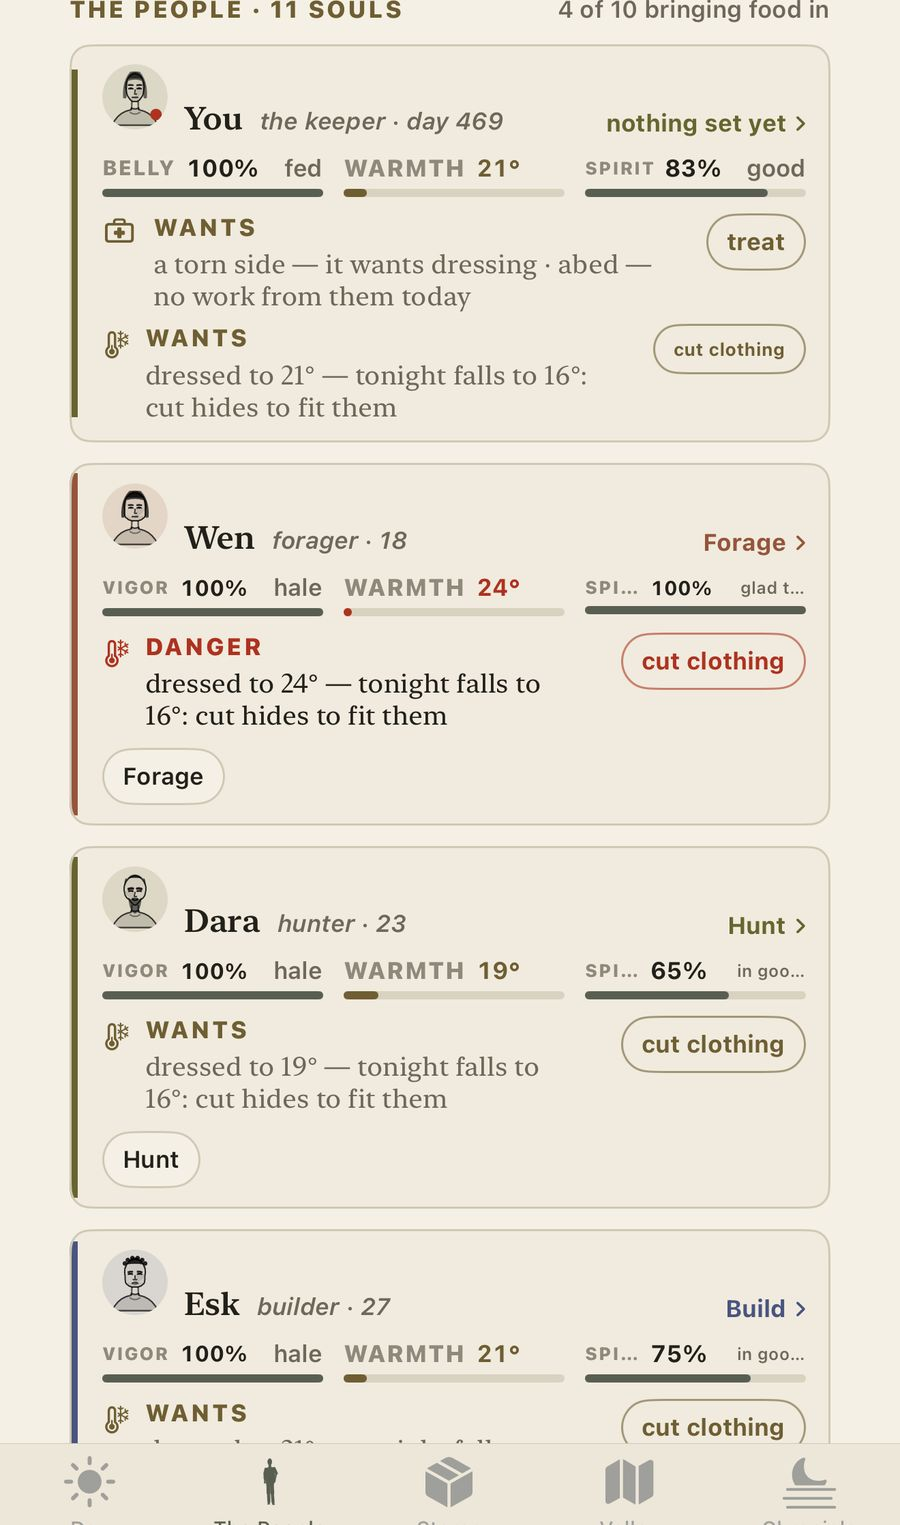
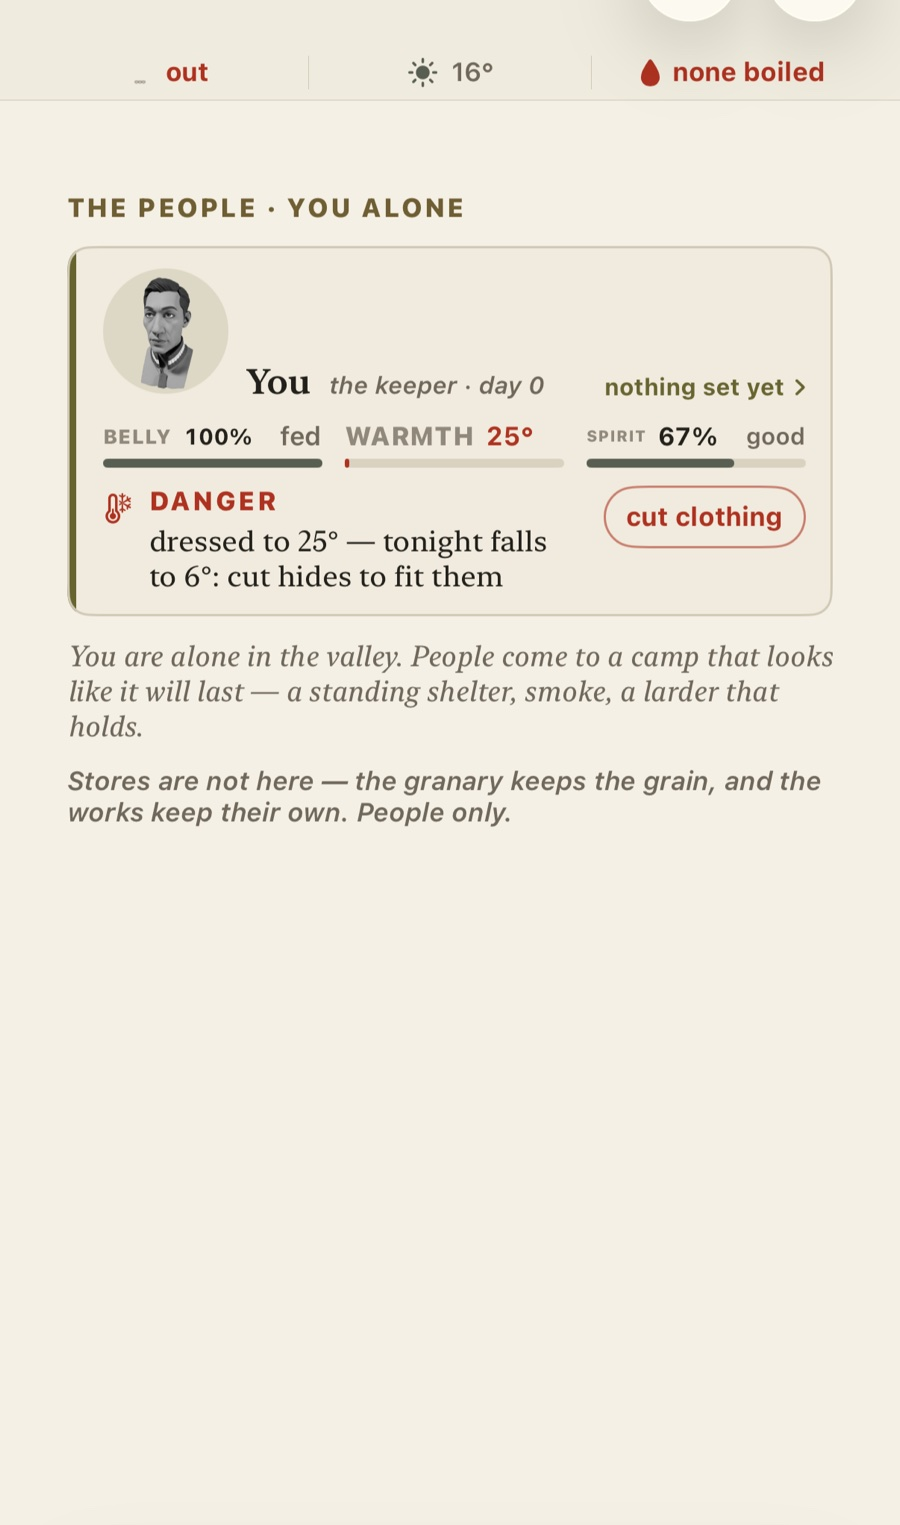
The People page with its painted bust, and the room section awaiting its two shots

diff --git a/index.html b/index.html
@@ -220,16 +220,20 @@
 </section>
 
 <section class="alt">
-  <div class="wrap split">
-    <img class="reveal" src="/vision-valley.jpg" width="1500" height="1149" loading="lazy"
-         alt="The valley as a living diorama on a table, seen on Apple Vision Pro">
-    <div>
-      <p class="eyebrow">Apple Vision Pro</p>
-      <h2>Your valley, on the table</h2>
-      <p>The whole holding sits in the room as a diorama you can lean into, turn on its axis and
-        walk around — the fire alight, the river running, the smoke leaning with the wind.</p>
-      <p>The same life, the same save, on every device you own.</p>
+  <div class="wrap">
+    <p class="eyebrow">Apple Vision Pro</p>
+    <h2>Step into the valley</h2>
+    <p style="max-width:38rem">On the headset the camp does not sit in a window. Say the word and it
+      is in your room at waist height — a desert holding on a hard-baked pan, or a taiga camp with
+      the birches turning — and you lean over the fire, look down the river, and walk round the
+      house. The tabletop diorama is still there when you want it small.</p>
+    <div class="split" style="margin-top:1.4rem">
+      <img class="reveal" src="/vision-room-scrub.jpg?v=1" width="1920" height="1080" loading="lazy"
+           alt="A desert camp standing in a living room, seen full-size on Apple Vision Pro">
+      <img class="reveal" src="/vision-room-taiga.jpg?v=1" width="1920" height="1080" loading="lazy"
+           alt="A taiga camp in autumn standing in a living room, seen full-size on Apple Vision Pro">
     </div>
+    <p class="soft" style="margin-top:.8rem">The same life, the same save, on every device you own.</p>
   </div>
 </section>
 
@@ -328,7 +332,7 @@
           wind — read the land before you spend a season on it.</p></figcaption>
       </figure>
       <figure class="reveal">
-        <img src="/people.jpg" width="900" height="1525" loading="lazy"
+        <img src="/people.jpg?v=3" width="900" height="1525" loading="lazy"
              alt="The People: each settler with their own readings and their own roof">
         <figcaption><h3>The People</h3><p>Five ledgers and no health bar. Everyone has an age, a
           leaning, someone they walked in with, and somewhere to sleep.</p></figcaption>
